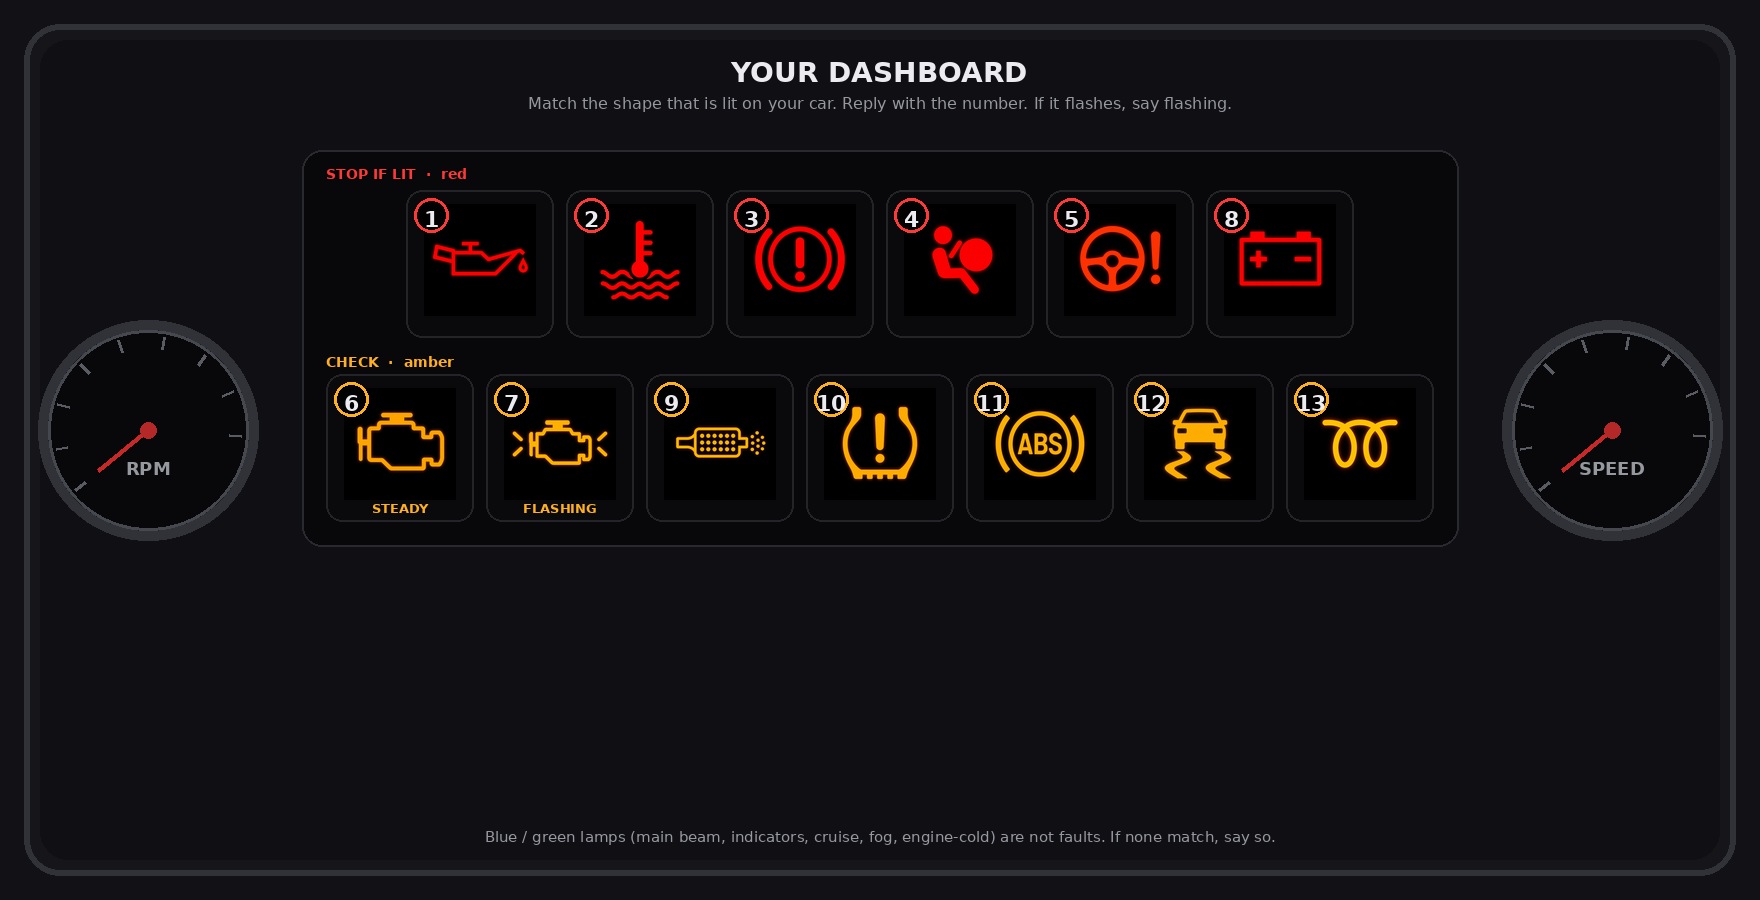
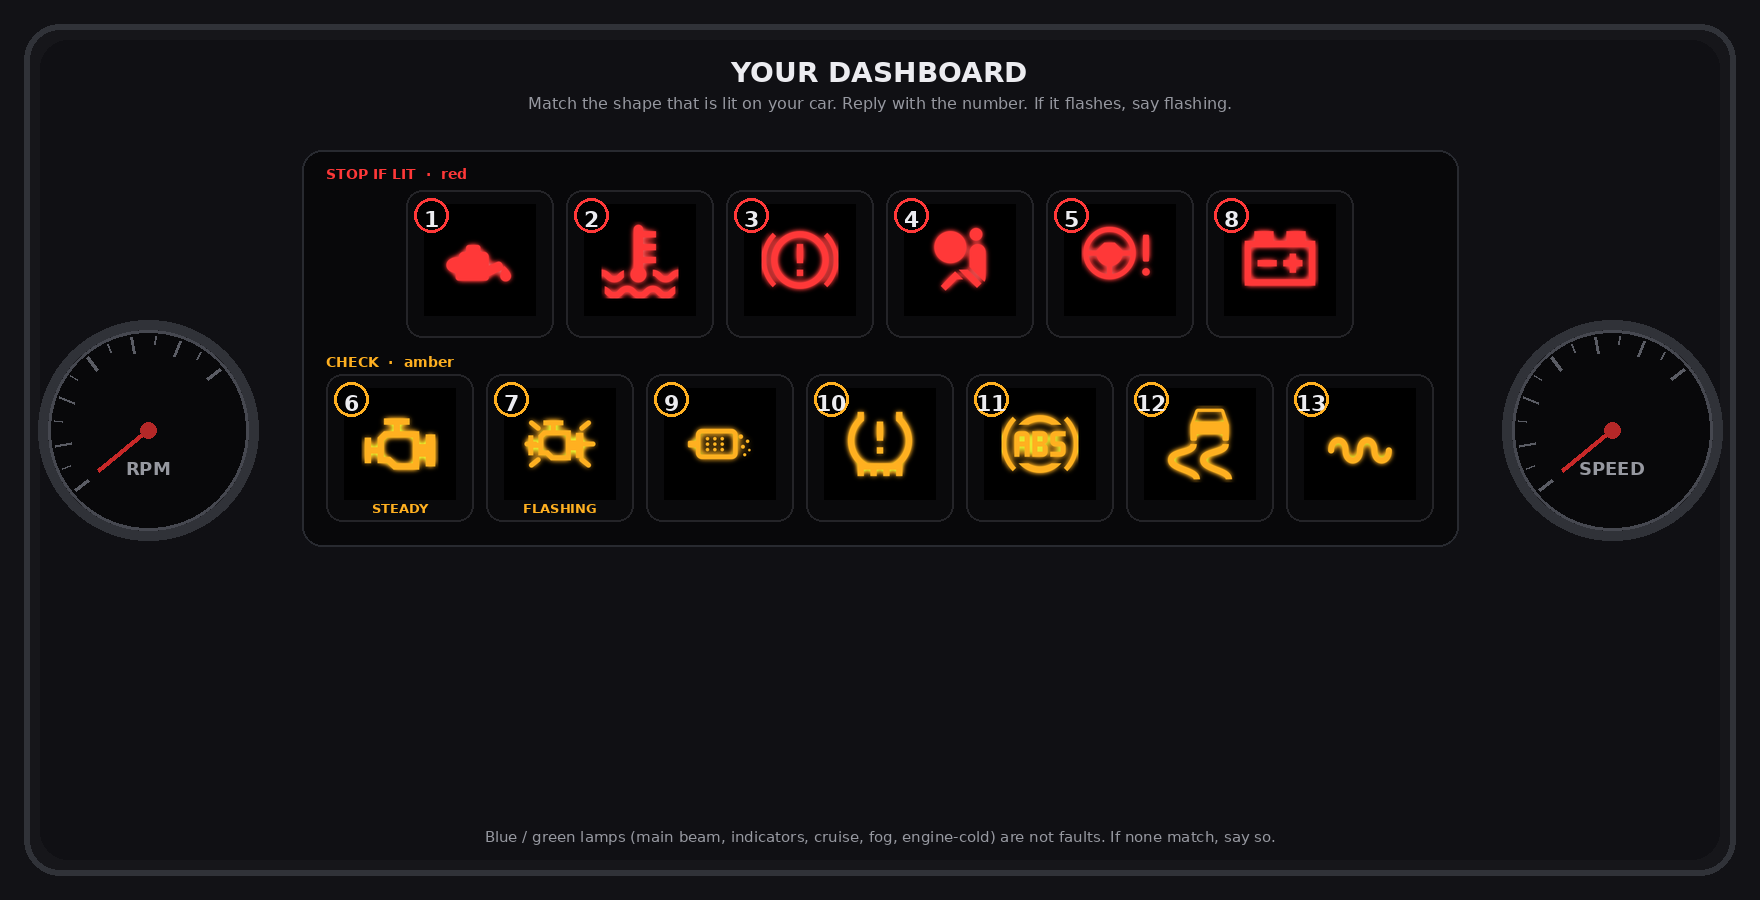
Upgrade the cluster lamps from generated bitmaps to vectors.
Vendored Material Design Icons cover the shapes that already match a
UK telltale. Oil-pressure, DPF and glow-plug are original drawings so
we do not ship ISO artwork. Chat still sees one numbered cluster.png.

diff --git a/scripts/compose_cluster.py b/scripts/compose_cluster.py
@@ -1,38 +1,44 @@
 #!/usr/bin/env python3
-"""Build assets/cluster.png from the 13 lamp icons.
+"""Rasterize vector lamps and build assets/cluster.png.
 
-The picker the owner sees is one instrument-cluster picture with numbers
-on the lamps — not a list of English names. Regenerates in place.
+Sources live in assets/svg/. The owner still sees one numbered dashboard
+picture — this only upgrades the lamps from generated bitmaps to vectors.
 """
 from __future__ import annotations
 
 import math
+import re
+from io import BytesIO
 from pathlib import Path
 
-from PIL import Image, ImageDraw, ImageFont
+import cairosvg
+from PIL import Image, ImageDraw, ImageEnhance, ImageFilter, ImageFont
 
 ROOT = Path(__file__).resolve().parents[1]
 ASSETS = ROOT / "assets"
-OUT = ASSETS / "cluster.png"
+SVG_DIR = ASSETS / "svg"
+OUT_CLUSTER = ASSETS / "cluster.png"
 
 LAMPS = [
-    (1, "lamp-01-oil-pressure.png", "red"),
-    (2, "lamp-02-coolant-temp.png", "red"),
-    (3, "lamp-03-brake-system.png", "red"),
-    (4, "lamp-04-airbag-srs.png", "red"),
-    (5, "lamp-05-power-steering.png", "red"),
-    (8, "lamp-08-battery-charging.png", "red"),
-    (6, "lamp-06-engine-steady.png", "amber"),
-    (7, "lamp-07-engine-flashing.png", "amber"),
-    (9, "lamp-09-dpf.png", "amber"),
-    (10, "lamp-10-tyre-pressure.png", "amber"),
-    (11, "lamp-11-abs.png", "amber"),
-    (12, "lamp-12-esc-traction.png", "amber"),
-    (13, "lamp-13-glow-plug.png", "amber"),
+    (1, "01-oil-pressure", "lamp-01-oil-pressure.png", "red"),
+    (2, "02-coolant-temp", "lamp-02-coolant-temp.png", "red"),
+    (3, "03-brake-system", "lamp-03-brake-system.png", "red"),
+    (4, "04-airbag-srs", "lamp-04-airbag-srs.png", "red"),
+    (5, "05-power-steering", "lamp-05-power-steering.png", "red"),
+    (8, "08-battery-charging", "lamp-08-battery-charging.png", "red"),
+    (6, "06-engine-steady", "lamp-06-engine-steady.png", "amber"),
+    (7, "07-engine-flashing", "lamp-07-engine-flashing.png", "amber"),
+    (9, "09-dpf", "lamp-09-dpf.png", "amber"),
+    (10, "10-tyre-pressure", "lamp-10-tyre-pressure.png", "amber"),
+    (11, "11-abs", "lamp-11-abs.png", "amber"),
+    (12, "12-esc-traction", "lamp-12-esc-traction.png", "amber"),
+    (13, "13-glow-plug", "lamp-13-glow-plug.png", "amber"),
 ]
 
 RED = (255, 56, 56, 255)
 AMBER = (255, 176, 32, 255)
+RED_HEX = "#ff3838"
+AMBER_HEX = "#ffb020"
 WHITE = (236, 236, 240, 255)
 MUTED = (150, 152, 160, 255)
 BEZEL = (48, 50, 56, 255)
@@ -43,6 +49,7 @@ W, H = 1760, 900
 CELL = 148
 ICON = 112
 GAP = 12
+LAMP_PNG = 256
 
 
 def font(size: int, bold: bool = False) -> ImageFont.FreeTypeFont:
@@ -54,17 +61,45 @@ def rounded_rect(draw: ImageDraw.ImageDraw, box, fill, radius: int, outline=None
     draw.rounded_rectangle(box, radius=radius, fill=fill, outline=outline, width=width)
 
 
+def colorize_svg(svg: str, hex_color: str) -> str:
+    svg = svg.replace("currentColor", hex_color)
+    root = re.search(r"<svg\b[^>]*>", svg)
+    root_fill = root.group(0) if root else ""
+    if "fill=" not in root_fill:
+        svg = svg.replace("<svg ", f'<svg fill="{hex_color}" ', 1)
+    if 'fill="none"' not in root_fill:
+        svg = re.sub(r"<path(?![^>]*\bfill=)", f'<path fill="{hex_color}"', svg)
+    return svg
+
+
+def raster_svg(svg_stem: str, kind: str) -> Image.Image:
+    hex_color = RED_HEX if kind == "red" else AMBER_HEX
+    svg = (SVG_DIR / f"{svg_stem}.svg").read_text()
+    svg = colorize_svg(svg, hex_color)
+    inner = 176
+    png = cairosvg.svg2png(bytestring=svg.encode("utf-8"), output_width=inner, output_height=inner)
+    icon = Image.open(BytesIO(png)).convert("RGBA")
+    canvas = Image.new("RGBA", (LAMP_PNG, LAMP_PNG), (0, 0, 0, 255))
+    glow = icon.filter(ImageFilter.GaussianBlur(8))
+    glow = ImageEnhance.Brightness(glow).enhance(2.1)
+    ox = (LAMP_PNG - inner) // 2
+    canvas.alpha_composite(glow, (ox, ox))
+    canvas.alpha_composite(glow, (ox, ox))
+    canvas.alpha_composite(icon, (ox, ox))
+    return canvas
+
+
 def draw_gauge(img: Image.Image, cx: int, cy: int, r: int, label: str) -> None:
     overlay = Image.new("RGBA", img.size, (0, 0, 0, 0))
     d = ImageDraw.Draw(overlay)
     d.ellipse((cx - r - 10, cy - r - 10, cx + r + 10, cy + r + 10), fill=(28, 28, 32, 255), outline=BEZEL, width=10)
     d.ellipse((cx - r, cy - r, cx + r, cy + r), fill=(8, 8, 10, 255), outline=(70, 72, 80, 255), width=3)
-    for i in range(9):
-        ang = math.radians(220 - i * 28)
-        inner, outer = r - 18, r - 6
+    for i in range(13):
+        ang = math.radians(220 - i * (220 - 40) / 12)
+        inner, outer = r - (22 if i % 2 == 0 else 14), r - 6
         x1, y1 = cx + inner * math.cos(ang), cy - inner * math.sin(ang)
         x2, y2 = cx + outer * math.cos(ang), cy - outer * math.sin(ang)
-        d.line((x1, y1, x2, y2), fill=(90, 92, 100, 255), width=3)
+        d.line((x1, y1, x2, y2), fill=(90, 92, 100, 255), width=3 if i % 2 == 0 else 2)
     rest = math.radians(220)
     nx = cx + (r - 36) * math.cos(rest)
     ny = cy - (r - 36) * math.sin(rest)
@@ -72,22 +107,15 @@ def draw_gauge(img: Image.Image, cx: int, cy: int, r: int, label: str) -> None:
     d.ellipse((cx - 8, cy - 8, cx + 8, cy + 8), fill=(180, 40, 40, 255))
     f = font(18, bold=True)
     bbox = d.textbbox((0, 0), label, font=f)
-    tw, th = bbox[2] - bbox[0], bbox[3] - bbox[1]
+    tw = bbox[2] - bbox[0]
     d.text((cx - tw / 2, cy + r * 0.28), label, font=f, fill=MUTED)
     img.alpha_composite(overlay)
-
-
-def load_icon(name: str) -> Image.Image:
-    im = Image.open(ASSETS / name).convert("RGBA")
-    im = im.resize((ICON, ICON), Image.Resampling.LANCZOS)
-    return im
 
 
 def stamp_number(cell: Image.Image, n: int, colour: tuple[int, int, int, int]) -> None:
     d = ImageDraw.Draw(cell)
     f = font(22, bold=True)
-    badge = (8, 8, 42, 42)
-    d.ellipse(badge, fill=(0, 0, 0, 230), outline=colour, width=3)
+    d.ellipse((8, 8, 42, 42), fill=(0, 0, 0, 230), outline=colour, width=3)
     text = str(n)
     bbox = d.textbbox((0, 0), text, font=f)
     tw, th = bbox[2] - bbox[0], bbox[3] - bbox[1]
@@ -102,12 +130,12 @@ def caption(cell: Image.Image, text: str, colour: tuple[int, int, int, int]) -> 
     d.text(((CELL - tw) / 2, CELL - 22), text, font=f, fill=colour)
 
 
-def make_cell(n: int, filename: str, kind: str) -> Image.Image:
+def make_cell(n: int, png_name: str, kind: str) -> Image.Image:
     colour = RED if kind == "red" else AMBER
     cell = Image.new("RGBA", (CELL, CELL), (0, 0, 0, 0))
     d = ImageDraw.Draw(cell)
     rounded_rect(d, (0, 0, CELL - 1, CELL - 1), WELL, 16, outline=(36, 36, 40, 255), width=2)
-    icon = load_icon(filename)
+    icon = Image.open(ASSETS / png_name).convert("RGBA").resize((ICON, ICON), Image.Resampling.LANCZOS)
     ox = (CELL - ICON) // 2
     oy = (CELL - ICON) // 2 - 4
     cell.alpha_composite(icon, (ox, oy))
@@ -119,18 +147,26 @@ def make_cell(n: int, filename: str, kind: str) -> Image.Image:
     return cell
 
 
-def row_of(items: list[tuple[int, str, str]]) -> Image.Image:
+def row_of(items: list[tuple[int, str, str, str]]) -> Image.Image:
     n = len(items)
     w = n * CELL + (n - 1) * GAP
     row = Image.new("RGBA", (w, CELL), (0, 0, 0, 0))
     x = 0
-    for item in items:
-        row.alpha_composite(make_cell(*item), (x, 0))
+    for n_id, _svg, png_name, kind in items:
+        row.alpha_composite(make_cell(n_id, png_name, kind), (x, 0))
         x += CELL + GAP
     return row
 
 
-def main() -> None:
+def render_lamp_pngs() -> None:
+    for _n, stem, png_name, kind in LAMPS:
+        im = raster_svg(stem, kind)
+        path = ASSETS / png_name
+        im.convert("RGB").save(path, "PNG", optimize=True)
+        print(f"wrote {path.name} ({path.stat().st_size} bytes)")
+
+
+def compose_cluster() -> None:
     img = Image.new("RGBA", (W, H), BG)
     d = ImageDraw.Draw(img)
     rounded_rect(d, (24, 24, W - 25, H - 25), (22, 22, 26, 255), 36, outline=BEZEL, width=6)
@@ -139,20 +175,18 @@ def main() -> None:
     title = font(28, bold=True)
     t = "YOUR DASHBOARD"
     bbox = d.textbbox((0, 0), t, font=title)
-    tw = bbox[2] - bbox[0]
-    d.text(((W - tw) / 2, 56), t, font=title, fill=WHITE)
+    d.text(((W - (bbox[2] - bbox[0])) / 2, 56), t, font=title, fill=WHITE)
 
     sub = font(16)
     s = "Match the shape that is lit on your car. Reply with the number. If it flashes, say flashing."
     bbox = d.textbbox((0, 0), s, font=sub)
-    sw = bbox[2] - bbox[0]
-    d.text(((W - sw) / 2, 94), s, font=sub, fill=MUTED)
+    d.text(((W - (bbox[2] - bbox[0])) / 2, 94), s, font=sub, fill=MUTED)
 
     draw_gauge(img, 148, 430, 100, "RPM")
     draw_gauge(img, W - 148, 430, 100, "SPEED")
 
-    reds = [x for x in LAMPS if x[2] == "red"]
-    ambers = [x for x in LAMPS if x[2] == "amber"]
+    reds = [x for x in LAMPS if x[3] == "red"]
+    ambers = [x for x in LAMPS if x[3] == "amber"]
     red_row = row_of(reds)
     amber_row = row_of(ambers)
 
@@ -174,19 +208,20 @@ def main() -> None:
     d.text((well_x + 24, well_y + 48 + CELL + 8), "CHECK  ·  amber", font=label_f, fill=AMBER)
 
     img.alpha_composite(red_row, (well_x + (well_w - red_row.width) // 2, well_y + 40))
-    img.alpha_composite(
-        amber_row,
-        (well_x + (well_w - amber_row.width) // 2, well_y + 40 + CELL + 36),
-    )
+    img.alpha_composite(amber_row, (well_x + (well_w - amber_row.width) // 2, well_y + 40 + CELL + 36))
 
     foot = font(15)
     ftxt = "Blue / green lamps (main beam, indicators, cruise, fog, engine-cold) are not faults. If none match, say so."
     bbox = d.textbbox((0, 0), ftxt, font=foot)
-    fw = bbox[2] - bbox[0]
-    d.text(((W - fw) / 2, H - 72), ftxt, font=foot, fill=MUTED)
+    d.text(((W - (bbox[2] - bbox[0])) / 2, H - 72), ftxt, font=foot, fill=MUTED)
 
-    img.convert("RGB").save(OUT, "PNG", optimize=True)
-    print(f"wrote {OUT} ({OUT.stat().st_size} bytes)")
+    img.convert("RGB").save(OUT_CLUSTER, "PNG", optimize=True)
+    print(f"wrote {OUT_CLUSTER} ({OUT_CLUSTER.stat().st_size} bytes)")
+
+
+def main() -> None:
+    render_lamp_pngs()
+    compose_cluster()
 
 
 if __name__ == "__main__":

diff --git a/README.md b/README.md
@@ -51,8 +51,9 @@ After cloning, **start a new agent conversation** — old threads will not reloa
 | `SKILL.md` | Workflow, safety ordering, output format, red lines |
 | `references/lamp-picker.md` | How to show the picker: Read the cluster picture, then ask for the number |
 | `assets/cluster.png` | One instrument-cluster picture; numbers are on the lamps |
-| `assets/lamp-*.png` | The 13 individual pictograms (used to build the cluster, and to split 6 vs 7) |
-| `scripts/compose_cluster.py` | Regenerates `cluster.png` from the 13 icons |
+| `assets/lamp-*.png` | The 13 glowing lamps (rasterized from SVG for chat) |
+| `assets/svg/` | Vector sources: MDI Apache-2.0 plus three original pictograms |
+| `scripts/compose_cluster.py` | Rasterizes the SVGs and rebuilds `cluster.png` |
 | `references/warning-lights.md` | Thirteen UK dashboard lamps with safety grading and drive advice |
 | `references/vehicle-lookup.md` | Three access tiers, response shape, privacy rules |
 | `references/examples.md` | Worked runs: plate-then-picker, oil-lamp stop-first, not_found fallback, unmatched lamp, diagnosis refused |
@@ -82,12 +83,14 @@ Whether a lamp constitutes an MOT defect depends on the vehicle's first-use date
 - Vehicle and MOT records: DVSA MOT History API. Crown copyright.
 - Aggregate MOT statistics, where used: DVSA anonymised MOT dataset, [Open Government Licence v3.0](https://www.nationalarchives.gov.uk/doc/open-government-licence/version/3/). Attribution required on publication.
 - Lamp meanings, safety grading and drive advice: original work in this repository.
+- Lamp pictograms: Material Design Icons (Apache-2.0) plus original OBDCode UK drawings. See `assets/svg/NOTICE`.
 
 Not affiliated with DVSA or DVLA. Guidance is general information for UK drivers, not a substitute for professional diagnosis.
 
 ## Licence
 
-- Original skill text (workflow, 13-lamp reference, picker, examples): **CC-BY-4.0** (see `LICENSE`). Attribution: OBDCode UK.
+- Original skill text (workflow, 13-lamp reference, picker, examples) and original pictograms (oil-pressure, DPF, glow-plug): **CC-BY-4.0** (see `LICENSE`). Attribution: OBDCode UK.
+- Vendored Material Design Icons in `assets/svg/`: **Apache-2.0**, Pictogrammers (see `assets/svg/NOTICE` and `PICTOGRAMMERS-LICENSE.txt`).
 - Vehicle/MOT records retrieved at runtime: Crown copyright, via DVSA MOT History API. Not licensed by this file.
 - Aggregate MOT statistics if quoted: OGL v3.0, attribution required.
 

diff --git a/SKILL.md b/SKILL.md
@@ -157,5 +157,6 @@ After the statement, **stop**. If they ask what is wrong or how to fix it, say t
 - Vehicle and MOT records: DVSA MOT History API. Crown copyright.
 - Aggregate MOT statistics, where used: DVSA anonymised MOT dataset, [Open Government Licence v3.0](https://www.nationalarchives.gov.uk/doc/open-government-licence/version/3/). Attribution is required when this data is published.
 - Lamp meanings, drive advice and safety grading: original work in this repository.
+- Lamp pictograms: Material Design Icons (Apache-2.0, Pictogrammers) plus original OBDCode UK drawings for oil-pressure, DPF and glow-plug. Not ISO 2575 official artwork. Sources in `assets/svg/`.
 
 Not affiliated with DVSA or DVLA.

diff --git a/references/lamp-picker.md b/references/lamp-picker.md
@@ -2,7 +2,7 @@
 
 Owners recognise **shapes on the cluster**, not names like "oil-pressure".
 
-The picker is **one picture**: `assets/cluster.png`. Numbers are printed on the lamps. Never replace it with a prose list of English names.
+The picker is **one picture**: `assets/cluster.png`. Numbers are printed on the lamps. The lamps are vector-sourced (see `assets/svg/`) and rasterized for chat. Never replace the picture with a prose list of English names.
 
 ## How to show it (do this)
 
